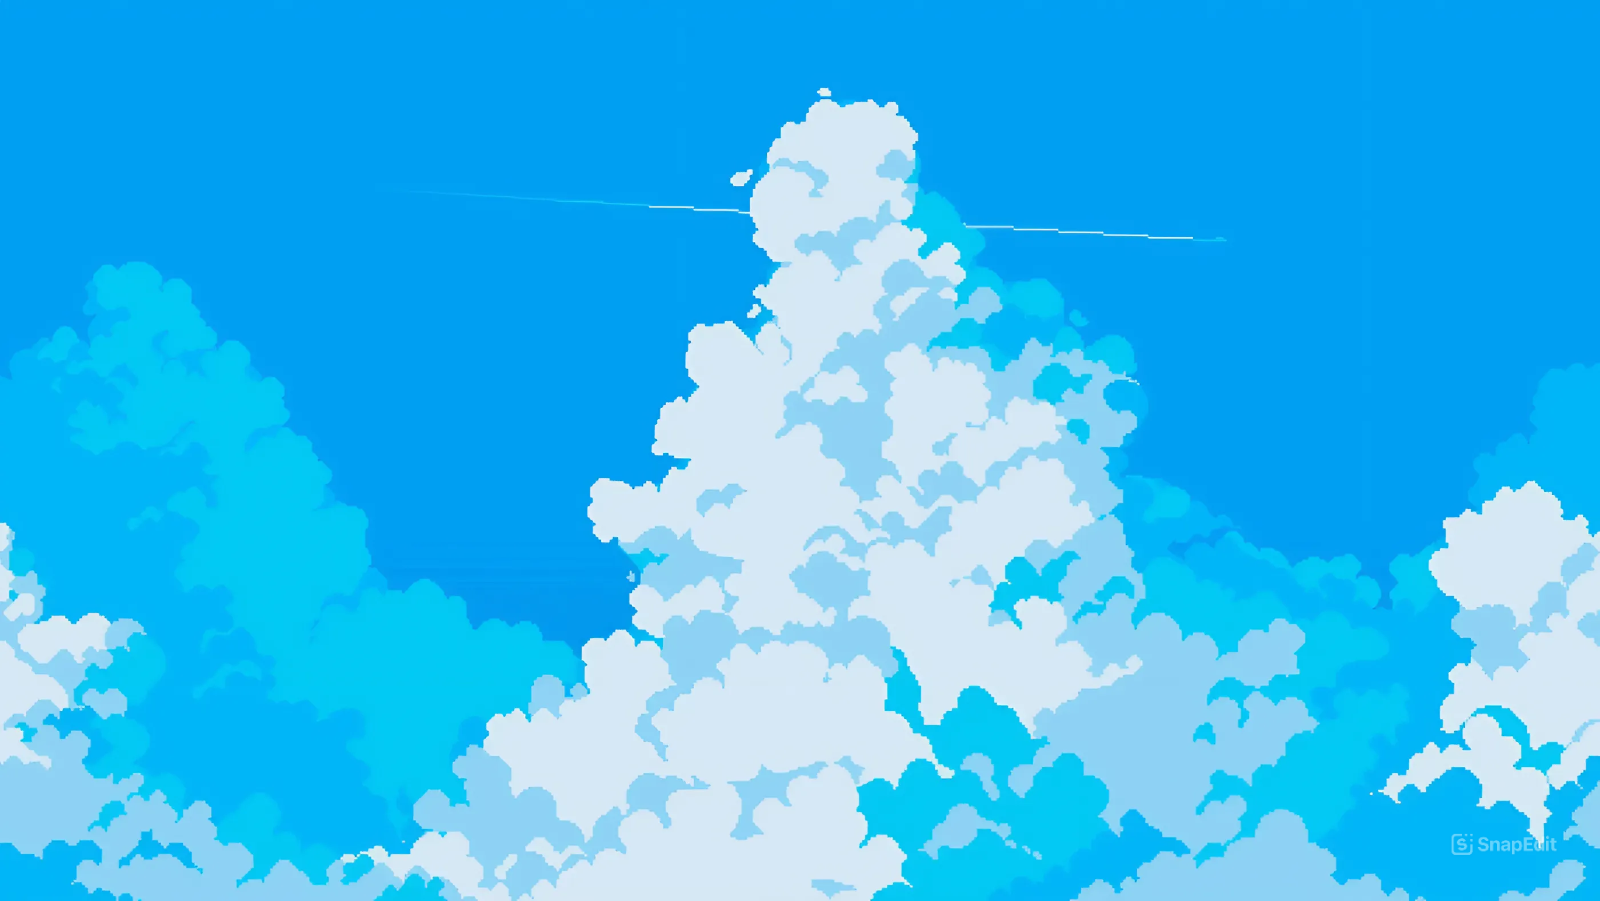
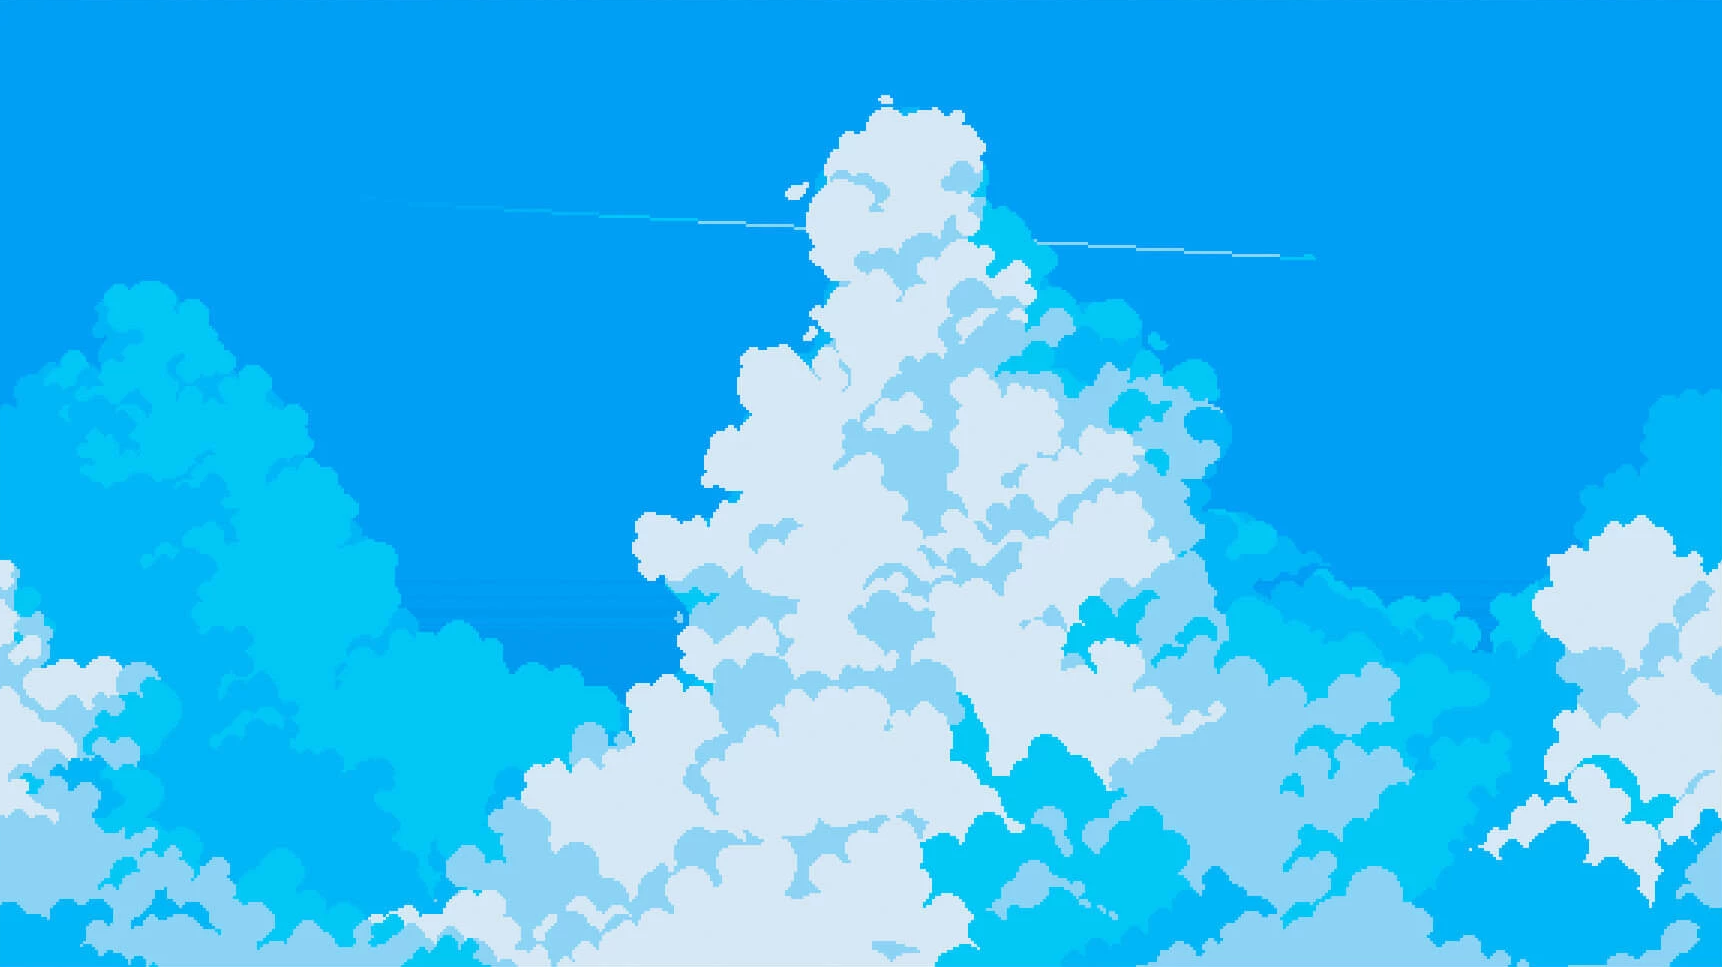
sửa kích thước của game, thêm phần preloader, them asset, thêm chap3, sửa lại phần load asset bằng client, bỏ player khỏi chap1

diff --git a/frontend/game/game-scene.ts b/frontend/game/game-scene.ts
@@ -7,6 +7,12 @@ export class GameScene extends Phaser.Scene {
   private platforms!: Phaser.Physics.Arcade.StaticGroup;
   private canJump: boolean = true;
   private wasOnGround: boolean = true;
+  private bg!: Phaser.GameObjects.Image;
+  private castle!: Phaser.GameObjects.Image;
+  private tree!: Phaser.GameObjects.Image;
+  private rock!: Phaser.GameObjects.Image;
+  private shrub!: Phaser.GameObjects.Image;
+  private floor!: Phaser.Physics.Arcade.Sprite;
 
   constructor(chapterId: number) {
     super("GameScene");
@@ -14,73 +20,83 @@ export class GameScene extends Phaser.Scene {
   }
 
   create() {
-    // Background
-    const bg = this.add.image(0, 0, "background").setOrigin(0);
-    bg.setScale(750 / bg.width, 380 / bg.height);
+    // Set background
+    if (this.chapterId !== 3) {
+      this.bg = this.add.image(0, 0, "background").setOrigin(0).setScale(0.44);
+    }
 
-    // Tạo platforms group
+    // Setup platforms
     this.platforms = this.physics.add.staticGroup();
 
-    //Chap_1
     if (this.chapterId === 1) {
-      // Floor - tạo platform
-      const floor = this.platforms.create(355, 360, "floor") as Phaser.Physics.Arcade.Sprite;
-      floor.setScale(0.25).refreshBody();
+      // Add floor
+      this.floor = this.platforms.create(410, 365, "floor") as Phaser.Physics.Arcade.Sprite;
+      this.floor.setScale(0.27).refreshBody();
 
-      // Rock
-      this.add.image(383, 335, "rock").setOrigin(0, 1).setScale(0.08);
+      // Add scenery
+      this.rock = this.add.image(383, 340, "rock").setOrigin(0, 1).setScale(0.08);
+      this.castle = this.add.image(600, 370, "castle").setOrigin(0.5, 1).setScale(0.35);
+      this.tree = this.add.image(-50, 338, "tree").setOrigin(0, 1).setScale(0.2);
+      this.shrub = this.add.image(700, 340, "shrub").setOrigin(0, 1).setScale(0.07);
+    } 
+    else if (this.chapterId === 2) {
+      // Add scenery
+      this.castle = this.add.image(455, 383, "castle").setOrigin(0.5, 1).setScale(0.466);
+      this.rock = this.add.image(-60, 413, "rock").setOrigin(0, 1).setScale(0.2);
+      this.tree = this.add.image(20, 390, "tree").setOrigin(0, 1).setScale(0.23);
+      this.shrub = this.add.image(-10, 378, "shrub").setOrigin(0, 1).setScale(0.07);
 
-      // Castle
-      this.add.image(600, 365, "castle").setOrigin(0.5, 1).setScale(0.35);
+      // Add floor
+      this.floor = this.platforms.create(410, 395, "floor") as Phaser.Physics.Arcade.Sprite;
+      this.floor.setScale(0.27).refreshBody();
 
-      // Tree
-      this.add.image(-50, 335, "tree").setOrigin(0, 1).setScale(0.2);
-
-      // Shrub
-      this.add.image(700, 333, "shrub").setOrigin(0, 1).setScale(0.07);
-
-      // Player
-      this.player = this.physics.add.sprite(200, 480 - 300, "player_idle");
-      this.player.setScale(1);
-      this.player.setCollideWorldBounds(true);
-
-      //Chap_2
-    } else if (this.chapterId === 2) {
-      // Castle - đặt ở giữa phải
-      this.add.image(432, 348, "castle").setOrigin(0.5, 1).setScale(0.47);
-
-      // Rock - đặt ở giữa trái
-      this.add.image(-60, 380, "rock").setOrigin(0, 1).setScale(0.2);
-
-      // Tree - đặt ở góc phải
-      this.add.image(20, 347, "tree").setOrigin(0, 1).setScale(0.2);
-
-      // Shrub - đặt ở góc trái
-      this.add.image(-10, 345, "shrub").setOrigin(0, 1).setScale(0.07);
-
-      // Floor - tạo platform
-      const floor = this.platforms.create(355, 360, "floor") as Phaser.Physics.Arcade.Sprite;
-      floor.setScale(0.25).refreshBody();
-
-      // Player
+      // Setup player
       this.player = this.physics.add.sprite(100, 480 - 300, "player_idle");
       this.player.setScale(1);
       this.player.setCollideWorldBounds(true);
+      this.physics.add.collider(this.player, this.platforms);
+    } else if (this.chapterId === 3) {
+      // Setup chapter 3
+      this.bg = this.add.image(0, 0, "background").setOrigin(0).setScale(0.45);
+
+      // Add invisible platforms
+      const redPlatform1 = this.add.rectangle(620, 340, 296, 60, 0xff0000);
+      redPlatform1.setAlpha(0);
+      this.physics.add.existing(redPlatform1, true);
+      this.platforms.add(redPlatform1);
+
+      const redPlatform2 = this.add.rectangle(100, 298, 214, 60, 0xff0000);
+      redPlatform2.setAlpha(0);
+      this.physics.add.existing(redPlatform2, true);
+      this.platforms.add(redPlatform2);
+
+      const redPlatform3 = this.add.rectangle(345, 370, 214, 60, 0xff0000);
+      redPlatform3.setAlpha(0);
+      this.physics.add.existing(redPlatform3, true);
+      this.platforms.add(redPlatform3);
+
+      // Setup player
+      if (this.textures.exists('player_idle')) {
+        this.player = this.physics.add.sprite(100, 200, "player_idle");
+        this.player.setScale(1);
+        this.player.setCollideWorldBounds(true);
+        this.physics.add.collider(this.player, this.platforms);
+        this.player.anims.play("idle", true);
+      } else {
+        console.error("Player texture not found!");
+      }
     }
 
-    // Thêm va chạm giữa player và platforms
-    this.physics.add.collider(this.player, this.platforms);
-
-    // Khởi tạo bàn phím
+    // Setup controls
     if (this.input && this.input.keyboard) {
       this.cursors = this.input.keyboard.createCursorKeys();
     }
   }
 
   update() {
-    if (!this.player) return;
+    if (!this.player || !this.player.anims) return;
 
-    // Xử lý di chuyển
+    // Left/Right movement
     if (this.cursors.left.isDown) {
       this.player.setVelocityX(-160);
       if (this.player.body && this.player.body.touching.down) {
@@ -100,15 +116,15 @@ export class GameScene extends Phaser.Scene {
       }
     }
 
-    // Kiểm tra trạng thái chạm đất
+    // Ground check
     const onGround = this.player.body && this.player.body.touching.down;
 
-    // Nếu vừa nhảy lên (từ chạm đất sang trên không)
+    // Jump animation
     if (!onGround && this.wasOnGround) {
       this.player.anims.play("jump", true);
     }
 
-    // Nếu vừa tiếp đất (từ trên không sang chạm đất)
+    // Land animation
     if (onGround && !this.wasOnGround) {
       if (this.player.body && this.player.body.velocity.x !== 0) {
         this.player.anims.play("run", true);
@@ -119,14 +135,13 @@ export class GameScene extends Phaser.Scene {
 
     this.wasOnGround = !!onGround;
 
-    // Xử lý nhảy
+    // Jump control
     if ((this.cursors.up.isDown || this.cursors.space.isDown) && this.canJump) {
       this.player.setVelocityY(-300);
       this.canJump = false;
-      // Không cần play jump ở đây nữa!
     }
 
-    // Reset canJump khi player chạm đất
+    // Reset jump
     if (onGround) {
       this.canJump = true;
     }

diff --git a/frontend/game/preloader.ts b/frontend/game/preloader.ts
@@ -10,11 +10,12 @@ export class Preloader extends Phaser.Scene {
 
   preload() {
     const basePath = `/chapters_game/Chap_${this.chapterId}/chapter_${this.chapterId}/assets`;
+    console.log('Loading assets from:', basePath);
 
     this.load.setPath(`${basePath}/background`);
     if (this.chapterId === 1) {
       // Chapter 1 assets
-      this.load.image("background", "sky/sky_7.png");
+      this.load.image("background", "sky/sky_2.png");
       this.load.image("floor", "ground/ground_2.png");
       this.load.image("castle", "castle/castle.png");
       this.load.image("tree", "tree/tree_4.png");
@@ -28,27 +29,19 @@ export class Preloader extends Phaser.Scene {
       this.load.image("tree", "tree/tree_3.png");
       this.load.image("shrub", "tree/shrub_1.png");
       this.load.image("rock", "rock/rock_1.png");
+    } else if (this.chapterId === 3) {
+      // Chapter 3 assets
+      console.log('Loading Chapter 3 assets');
+      this.load.image("background", "forest.png");
     }
 
     this.load.setPath(`${basePath}/player`);
-    if (this.chapterId === 1) {
-      // Chapter 1 player assets
-      this.load.image("sword", "sword.png");
-      this.load.spritesheet("player_run", "player_run.png", {
-        frameWidth: 96,
-        frameHeight: 64,
-      });
-      this.load.spritesheet("player_idle", "player_idle.png", {
-        frameWidth: 96,
-        frameHeight: 64,
-      });
-      this.load.spritesheet("player_jump", "player_jump.png", {
-        frameWidth: 96,
-        frameHeight: 64,
-      });
-    } else if (this.chapterId === 2) {
-      // Chapter 2 player assets
-      this.load.image("sword", "sword.png");
+    if (this.chapterId === 2 || this.chapterId === 3) {
+      console.log('Loading player assets for chapter', this.chapterId);
+      // Player assets for Chapter 2 and 3
+      if (this.chapterId === 2) {
+        this.load.image("sword", "sword.png");
+      }
       this.load.spritesheet("player_run", "player_run.png", {
         frameWidth: 96,
         frameHeight: 64,
@@ -65,26 +58,30 @@ export class Preloader extends Phaser.Scene {
   }
 
   create() {
-    this.anims.create({
-      key: "run",
-      frames: this.anims.generateFrameNumbers("player_run", { start: 0, end: 5 }),
-      frameRate: 10,
-      repeat: -1,
-    });
+    console.log('Creating animations for chapter', this.chapterId);
+    if (this.chapterId === 2 || this.chapterId === 3) {
+      // Create animations
+      this.anims.create({
+        key: "run",
+        frames: this.anims.generateFrameNumbers("player_run", { start: 0, end: 5 }),
+        frameRate: 10,
+        repeat: -1,
+      });
 
-    this.anims.create({
-      key: "idle",
-      frames: this.anims.generateFrameNumbers("player_idle", { start: 0, end: 4 }),
-      frameRate: 6,
-      repeat: -1,
-    });
+      this.anims.create({
+        key: "idle",
+        frames: this.anims.generateFrameNumbers("player_idle", { start: 0, end: 4 }),
+        frameRate: 6,
+        repeat: -1,
+      });
 
-    this.anims.create({
-      key: "jump",
-      frames: this.anims.generateFrameNumbers("player_jump", { start: 0, end: 3 }),
-      frameRate: 4,
-      repeat: 0,
-    });
+      this.anims.create({
+        key: "jump",
+        frames: this.anims.generateFrameNumbers("player_jump", { start: 0, end: 3 }),
+        frameRate: 4,
+        repeat: 0,
+      });
+    }
 
     this.scene.start("GameScene");
   }

diff --git a/frontend/components/game-canvas.tsx b/frontend/components/game-canvas.tsx
@@ -1,9 +1,12 @@
 "use client";
 
-import { useEffect, useRef } from "react";
-import * as Phaser from "phaser";
-import { GameScene } from "../game/game-scene";
-import { Preloader } from "../game/preloader";
+import { useEffect, useRef, useState } from "react";
+import dynamic from 'next/dynamic';
+
+// Import types only
+import type * as Phaser from "phaser";
+import type { GameScene } from "../game/game-scene";
+import type { Preloader } from "../game/preloader";
 
 interface GameCanvasProps {
   chapterId: number;
@@ -15,37 +18,53 @@ interface GameCanvasProps {
 
 const GameCanvas: React.FC<GameCanvasProps> = ({ chapterId }) => {
   const canvasRef = useRef<HTMLDivElement>(null);
+  const [isClient, setIsClient] = useState(false);
 
   useEffect(() => {
-    if (!canvasRef.current) return;
+    setIsClient(true);
+  }, []);
 
-    const config: Phaser.Types.Core.GameConfig = {
-      type: Phaser.AUTO,
-      width: 800,
-      height: 480,
-      parent: canvasRef.current,
-      scale: {
-        mode: Phaser.Scale.RESIZE,
-        autoCenter: Phaser.Scale.CENTER_BOTH,
-        width: '100%',
-        height: '100%',
-      },
-      physics: {
-        default: "arcade",
-        arcade: { 
-          gravity: {
-            y: 600,
-            x: 0
-          }, 
-          debug: false 
+  useEffect(() => {
+    if (!isClient || !canvasRef.current) return;
+
+    const initPhaser = async () => {
+      const Phaser = (await import('phaser')).default;
+      const { GameScene } = await import('../game/game-scene');
+      const { Preloader } = await import('../game/preloader');
+
+      const config: Phaser.Types.Core.GameConfig = {
+        type: Phaser.AUTO,
+        width: 800,
+        height: 480,
+        parent: canvasRef.current,
+        scale: {
+          mode: Phaser.Scale.ENVELOP,
+          autoCenter: Phaser.Scale.CENTER_BOTH,
+          width: '100%',
+          height: '100%',
         },
-      },
-      scene: [new Preloader(chapterId), new GameScene(chapterId)],
+        physics: {
+          default: "arcade",
+          arcade: { 
+            gravity: {
+              y: 600,
+              x: 0
+            }, 
+            debug: false 
+          },
+        },
+        scene: [new Preloader(chapterId), new GameScene(chapterId)],
+      };
+
+      const game = new Phaser.Game(config);
+      return () => game.destroy(true);
     };
 
-    const game = new Phaser.Game(config);
-    return () => game.destroy(true);
-  }, [chapterId]);
+    const cleanup = initPhaser();
+    return () => {
+      cleanup.then(cleanupFn => cleanupFn?.());
+    };
+  }, [isClient, chapterId]);
 
   return (
     <div
@@ -56,4 +75,6 @@ const GameCanvas: React.FC<GameCanvasProps> = ({ chapterId }) => {
   );
 };
 
-export default GameCanvas;
+export default dynamic(() => Promise.resolve(GameCanvas), {
+  ssr: false
+});

diff --git a/frontend/app/(main)/learn/chapters/[chapterId]/page.tsx b/frontend/app/(main)/learn/chapters/[chapterId]/page.tsx
@@ -9,7 +9,7 @@ import React from 'react';
 
 export default function ChapterPage({ params }: { params: { chapterId: string } }) {
     const [code, setCode] = React.useState("console.log('Hello from ChapterPage!');");
-    const chapterId = parseInt(params.chapterId);
+    const chapterId = React.useMemo(() => parseInt(params.chapterId), [params.chapterId]);
 
     const handleCodeChange = (newCode: string) => {
         setCode(newCode);
